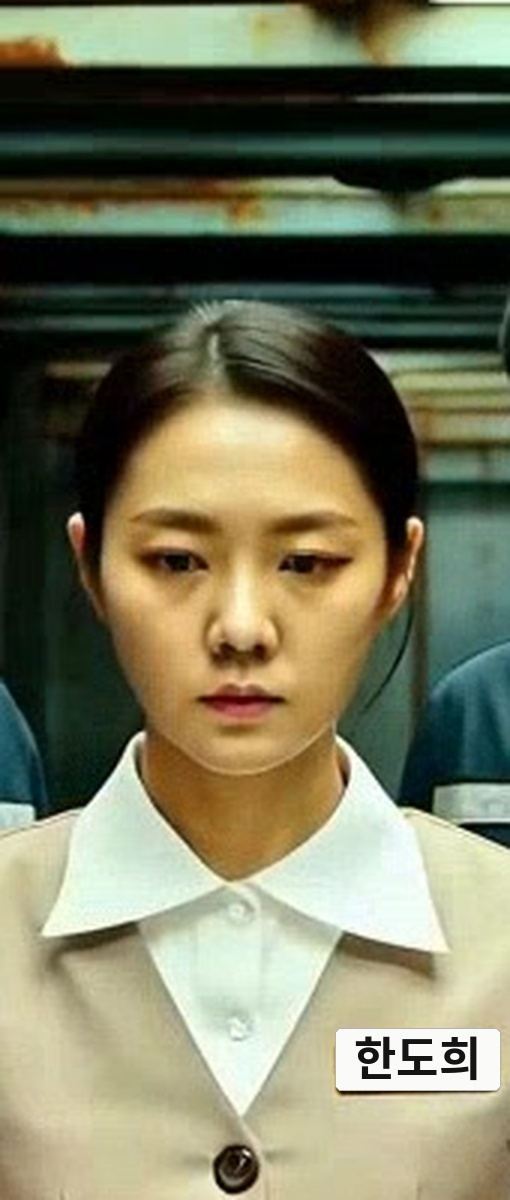
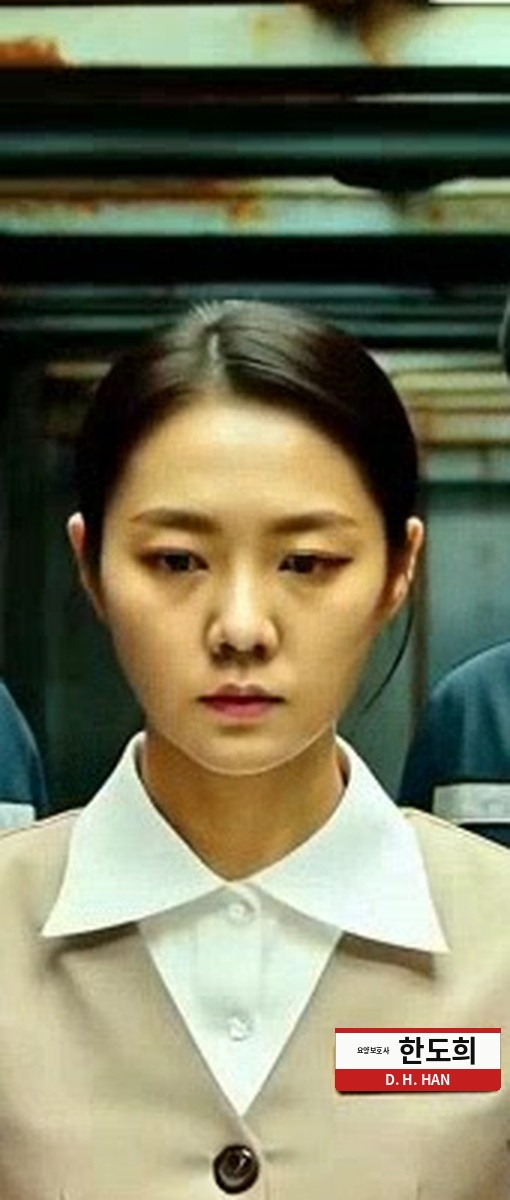
실명찰 합성 도구에 실물 사원증 스타일 추가 (사용자 참고 사진 기준)
사용자가 보낸 실제 사원증 명찰 사진(상단 포인트 컬러 줄 + 직함·이름 +
하단 로마자 표기 바)을 참고해 composite_nametag.py에 --style badge를
추가. 기존 --style simple(흰 바탕 텍스트 한 줄)은 그대로 유지.

- composite_badge(): 박스를 상/중/하 3단으로 나눠 상단 얇은 포인트 컬러
  줄, 중단 흰 바탕에 직함(작게)+이름(크게, 자동 폭맞춤), 하단 포인트
  컬러 바에 로마자 표기(흰 글자)를 그린다. 직함·로마자가 없으면 그 줄을
  생략하고 이름 줄에 공간을 재분배.
- 도희 OmniHuman 기준 이미지(dohee-face-named.jpg)를 새 스타일로 재생성:
  "요양보호사 한도희" / "D. H. HAN". 무과금 로컬 작업.

Claude-Session: https://claude.ai/code/session_01HfUm6RwvcizgPJMDvmyVey

Changed region(s): [[0.6471, 0.8325, 1.0, 0.925]]

diff --git a/scripts/composite_nametag.py b/scripts/composite_nametag.py
@@ -18,6 +18,11 @@
     # --box 없이 --pick 만 주면 좌표 그리드를 오버레이한 미리보기를 먼저 만들어
     # 명찰 위치를 눈으로 찾을 수 있다.
         python3 scripts/composite_nametag.py --image frame.jpg --out grid.jpg --pick
+    # 실물 사원증 스타일(상단 포인트 컬러 줄 + 직함/이름 + 하단 로마자 표기 바):
+        python3 scripts/composite_nametag.py \
+            --image frame.jpg --out frame-named.jpg --style badge \
+            --text 한도희 --rank 요양보호사 --romanized "D. H. HAN" \
+            --box 335,1028,165,62
 """
 
 import argparse
@@ -89,6 +94,76 @@ def composite(image, text, box, tag_color=(250, 250, 248), text_color=(20, 20, 2
     return img
 
 
+def fit_text(draw, text, font_path, max_w, max_h, bold=True):
+    """max_w x max_h 안에 들어가는 가장 큰 폰트 크기로 (font, bbox)를 돌려준다."""
+    size = max_h
+    font = ImageFont.truetype(font_path, size)
+    bbox = draw.textbbox((0, 0), text, font=font)
+    tw, th = bbox[2] - bbox[0], bbox[3] - bbox[1]
+    while (tw > max_w or th > max_h) and size > 4:
+        size -= 1
+        font = ImageFont.truetype(font_path, size)
+        bbox = draw.textbbox((0, 0), text, font=font)
+        tw, th = bbox[2] - bbox[0], bbox[3] - bbox[1]
+    return font, bbox
+
+
+def draw_centered(draw, text, font, cx, cy, fill):
+    bbox = draw.textbbox((0, 0), text, font=font)
+    tw, th = bbox[2] - bbox[0], bbox[3] - bbox[1]
+    draw.text((cx - tw / 2 - bbox[0], cy - th / 2 - bbox[1]), text, fill=fill, font=font)
+
+
+def composite_badge(image, box, name_kr, rank=None, romanized=None,
+                     accent_color=(196, 30, 30), bg_color=(250, 250, 248),
+                     text_color=(15, 15, 15), radius=4):
+    """실물 사원증 명찰 스타일로 합성한다 (사용자 제공 참고 사진 기준):
+    상단 얇은 포인트 컬러 줄 → 흰 바탕에 [직함 소형 + 이름 대형] → 하단
+    포인트 컬러 바에 로마자 표기(흰 글자). rank/romanized가 없으면 그 줄은 생략하고
+    남은 공간을 이름 줄에 재분배한다.
+    """
+    x, y, w, h = box
+    img = image.convert("RGB").copy()
+    draw = ImageDraw.Draw(img)
+    font_path = find_font()
+
+    draw.rounded_rectangle([x, y, x + w, y + h], radius=radius, fill=bg_color,
+                            outline=(170, 170, 165), width=1)
+
+    top_h = max(2, int(h * 0.07))
+    bot_h = int(h * 0.34) if romanized else 0
+    mid_h = h - top_h - bot_h
+
+    draw.rectangle([x, y, x + w, y + top_h], fill=accent_color)
+    if bot_h:
+        draw.rounded_rectangle([x, y + h - bot_h, x + w, y + h], radius=radius,
+                                fill=accent_color)
+        draw.rectangle([x, y + h - bot_h, x + w, y + h - bot_h + radius], fill=accent_color)
+
+    pad = max(2, int(w * 0.05))
+    mid_cy = y + top_h + mid_h / 2
+    if rank:
+        rank_font, rank_bbox = fit_text(draw, rank, font_path,
+                                         int(w * 0.22), int(mid_h * 0.55))
+        rw = rank_bbox[2] - rank_bbox[0]
+        name_font, name_bbox = fit_text(draw, name_kr, font_path,
+                                         w - 2 * pad - rw - pad, int(mid_h * 0.8))
+        nw = name_bbox[2] - name_bbox[0]
+        total_w = rw + pad + nw
+        start_x = x + (w - total_w) / 2
+        draw_centered(draw, rank, rank_font, start_x + rw / 2, mid_cy, text_color)
+        draw_centered(draw, name_kr, name_font, start_x + rw + pad + nw / 2, mid_cy, text_color)
+    else:
+        name_font, _ = fit_text(draw, name_kr, font_path, w - 2 * pad, int(mid_h * 0.8))
+        draw_centered(draw, name_kr, name_font, x + w / 2, mid_cy, text_color)
+
+    if bot_h:
+        rom_font, _ = fit_text(draw, romanized, font_path, w - 2 * pad, int(bot_h * 0.7))
+        draw_centered(draw, romanized, rom_font, x + w / 2, y + h - bot_h / 2, (255, 255, 255))
+
+    return img
+
+
 def parse_box(s):
     x, y, w, h = (int(v) for v in s.split(","))
     return (x, y, w, h)
@@ -98,13 +173,19 @@ def main():
     ap = argparse.ArgumentParser()
     ap.add_argument("--image", required=True)
     ap.add_argument("--out", required=True)
-    ap.add_argument("--text", default="")
+    ap.add_argument("--text", default="", help="--style simple일 때 표시할 텍스트")
     ap.add_argument("--box", type=parse_box, default=None,
                     help="명찰 영역 'x,y,w,h' (원본 이미지 픽셀 좌표)")
     ap.add_argument("--pick", action="store_true",
                     help="합성 대신 좌표 격자 미리보기만 저장 (명찰 위치 찾기용)")
+    ap.add_argument("--style", default="simple", choices=["simple", "badge"],
+                    help="simple=흰 배경에 텍스트 한 줄, badge=실물 사원증 스타일"
+                         "(직함+이름 / 로마자 표기, 사용자 참고 사진 기준)")
     ap.add_argument("--tag-color", default="250,250,248")
     ap.add_argument("--text-color", default="20,20,20")
+    ap.add_argument("--accent-color", default="196,30,30", help="badge 스타일의 포인트 컬러")
+    ap.add_argument("--rank", default=None, help="badge 스타일: 직함 (예 '요양보호사')")
+    ap.add_argument("--romanized", default=None, help="badge 스타일: 로마자 표기 (예 'D. H. HAN')")
     args = ap.parse_args()
 
     image = Image.open(args.image)
@@ -117,11 +198,16 @@ def main():
     if not args.box or not args.text:
         raise SystemExit("--box와 --text가 필요합니다 (좌표를 모르면 --pick 먼저 실행)")
 
-    tag_color = tuple(int(v) for v in args.tag_color.split(","))
-    text_color = tuple(int(v) for v in args.text_color.split(","))
-    result = composite(image, args.text, args.box, tag_color, text_color)
+    if args.style == "badge":
+        accent = tuple(int(v) for v in args.accent_color.split(","))
+        result = composite_badge(image, args.box, args.text, args.rank, args.romanized,
+                                  accent_color=accent)
+    else:
+        tag_color = tuple(int(v) for v in args.tag_color.split(","))
+        text_color = tuple(int(v) for v in args.text_color.split(","))
+        result = composite(image, args.text, args.box, tag_color, text_color)
     result.save(args.out, quality=95)
-    print(f"합성 완료 → {args.out} (텍스트: '{args.text}', 영역: {args.box})")
+    print(f"합성 완료 → {args.out} (스타일: {args.style}, 텍스트: '{args.text}', 영역: {args.box})")
 
 
 if __name__ == "__main__":
